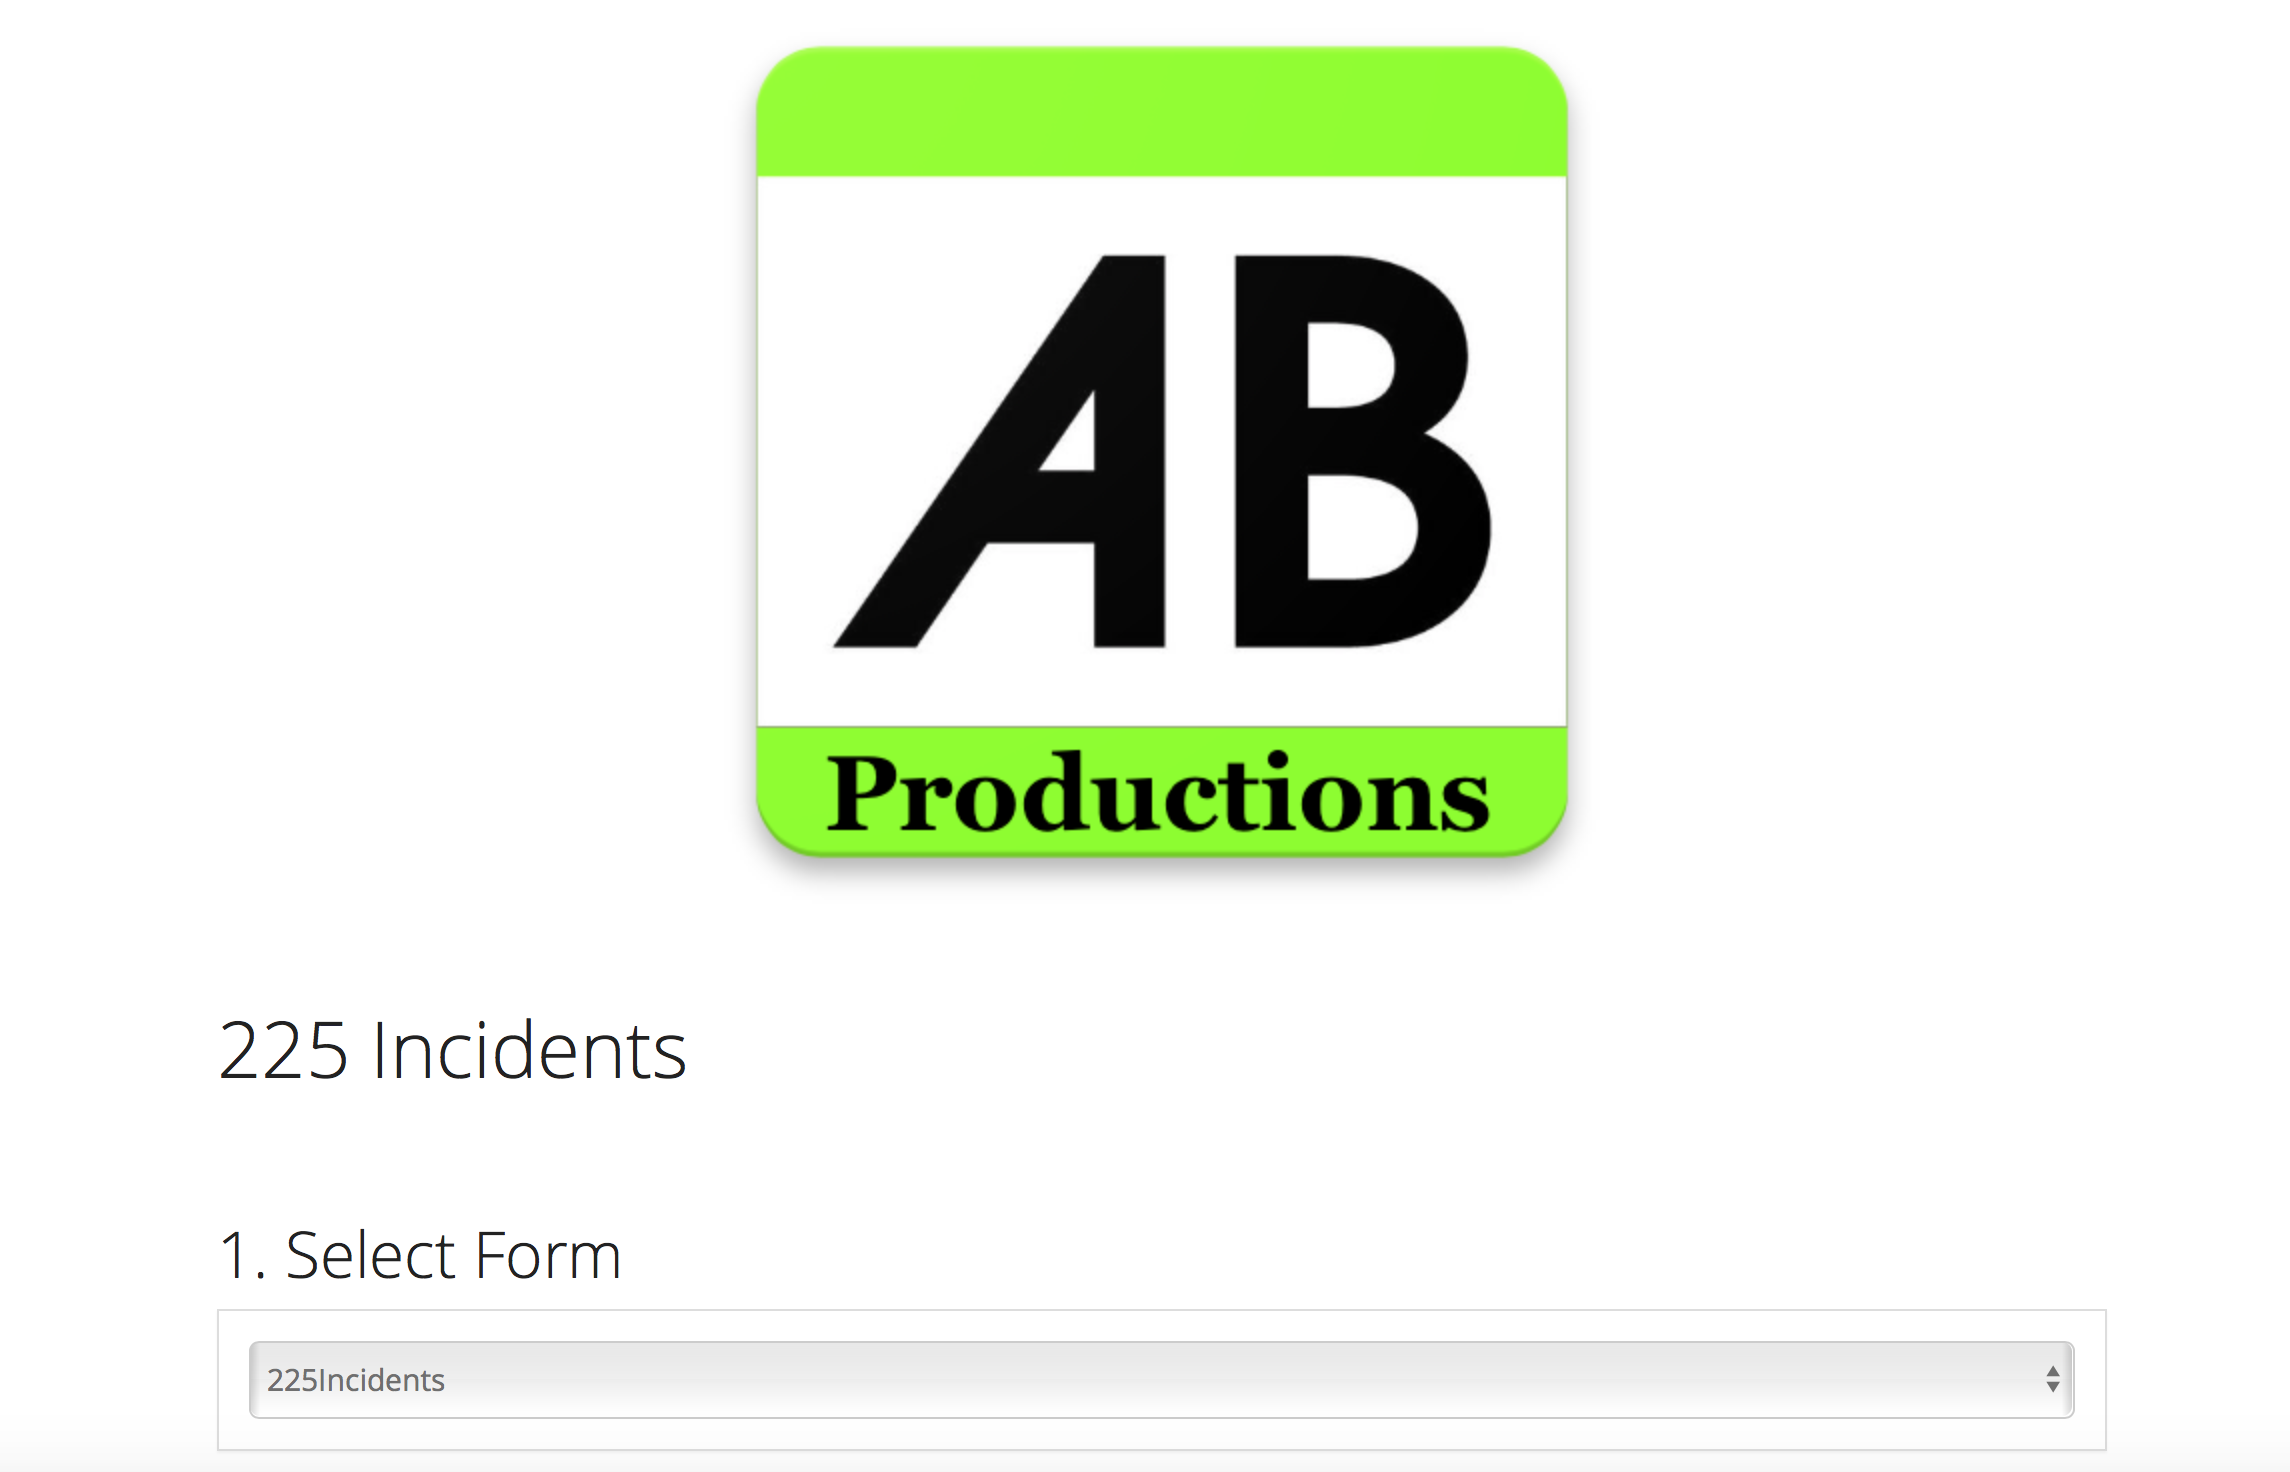
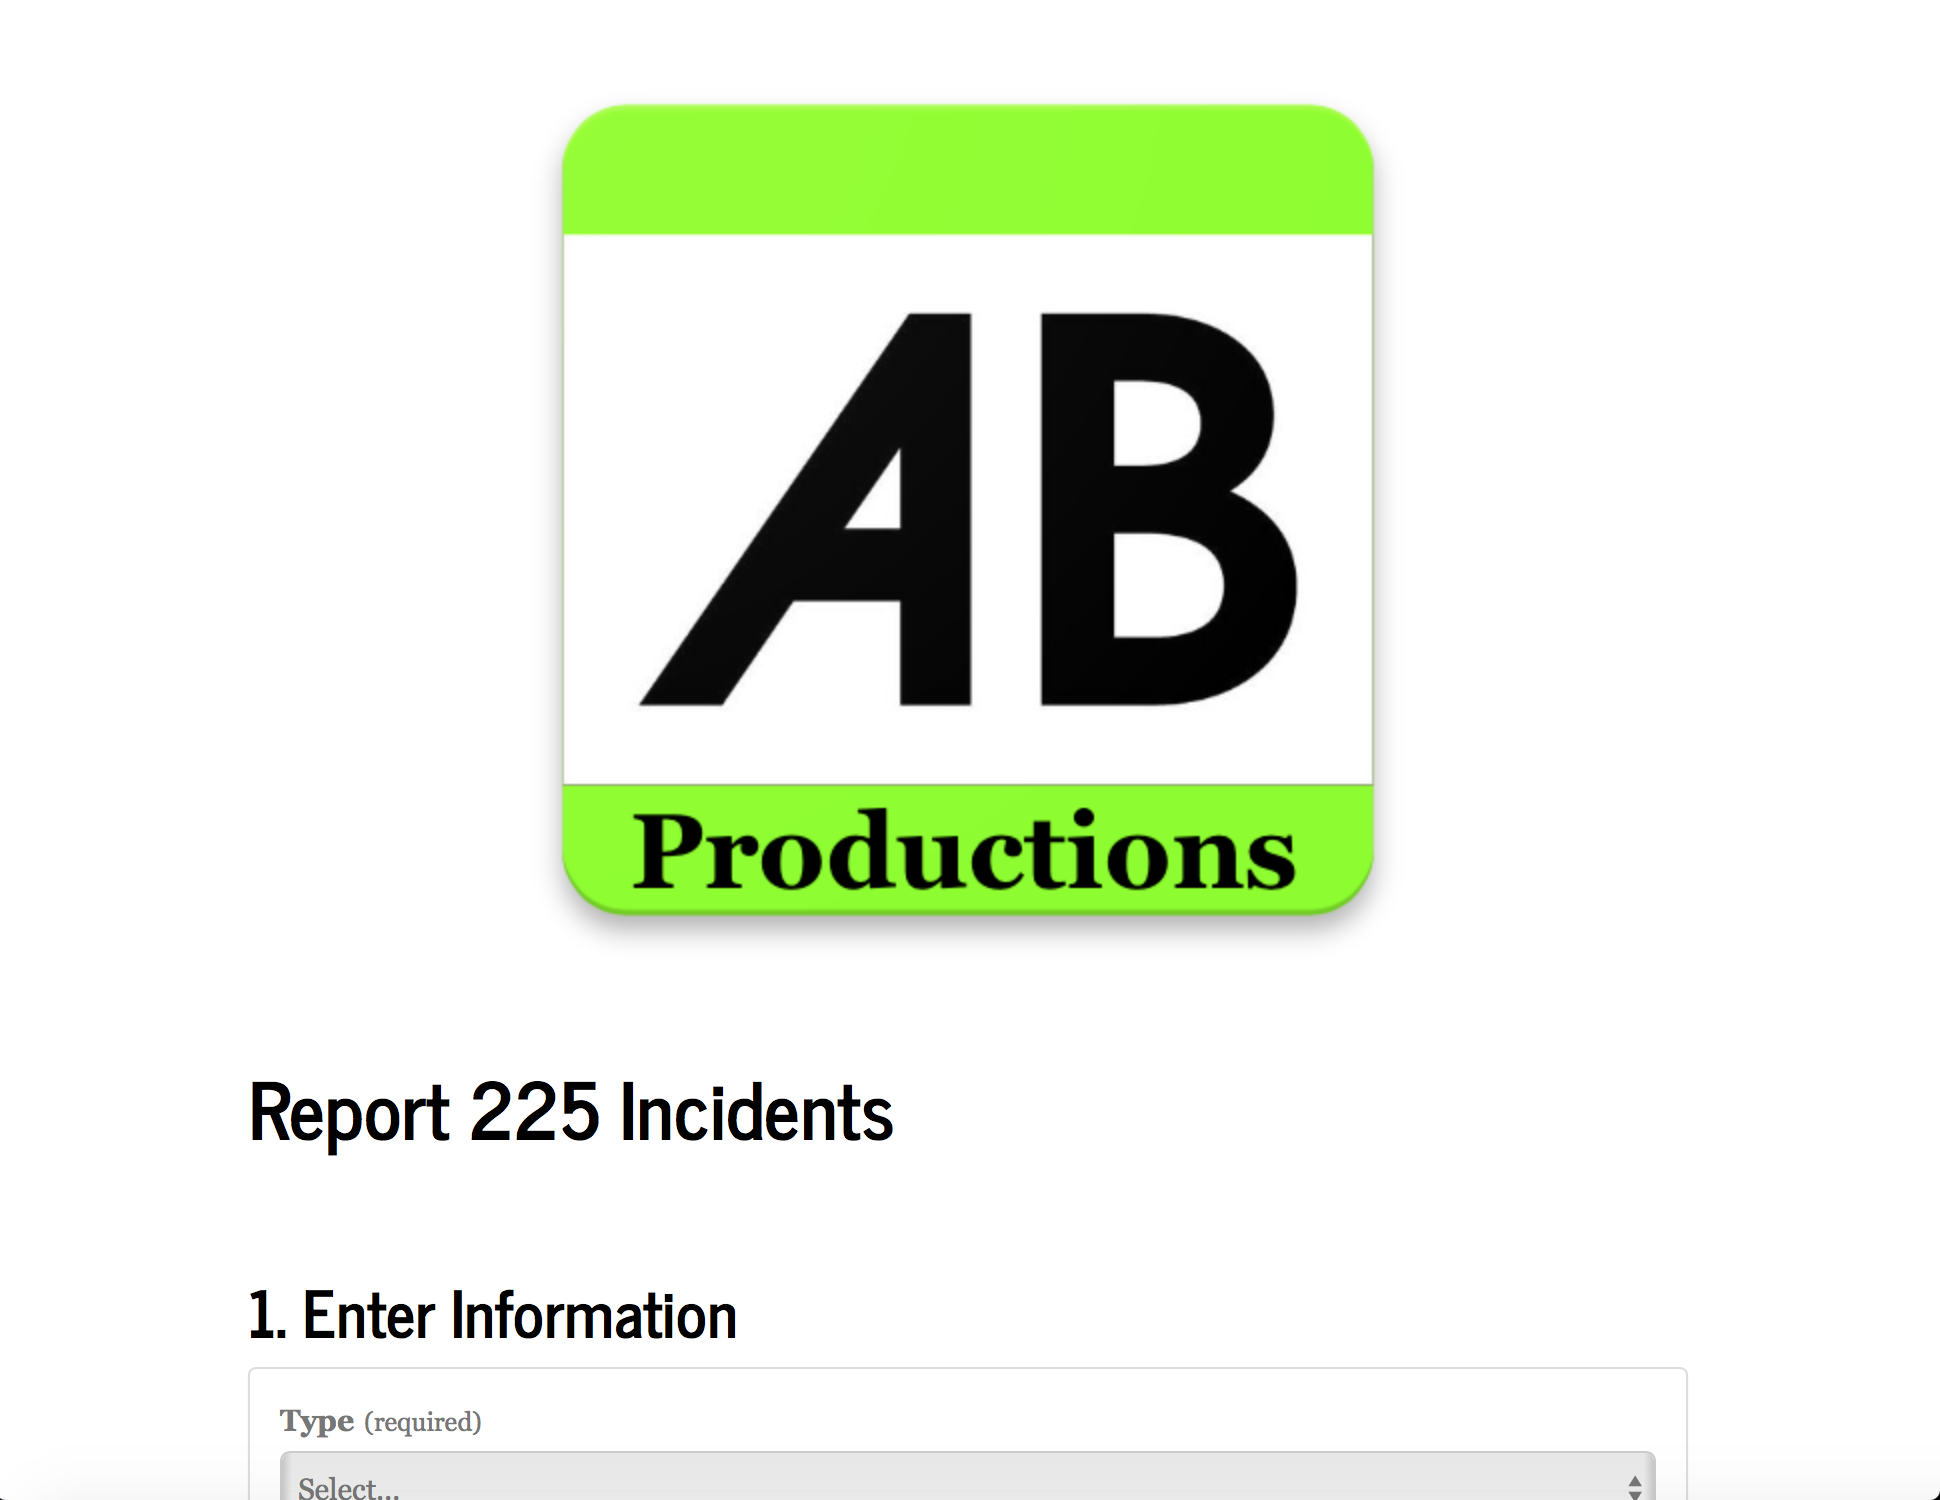
changes again

diff --git a/index.html b/index.html
@@ -44,7 +44,7 @@
       <h3>Book Assignment 03a</h3>
       <div class="assignment-titles">
         <a href="https://aarobasso95.maps.arcgis.com/apps/GeoForm/index.html?appid=5f706c570f7e427785e8c13967aa1b10">Report 225 Incidents</a>
-        <p> An interactive map showing incidents around LSU's campus that allows users to update the map in real-time when new incidents are occuring.
+        <p> An interactive map showing incidents around LSU's campus, allowing users to update and report incidents as they happen.
       </div>
       <br>
       <div class="screenshots">
